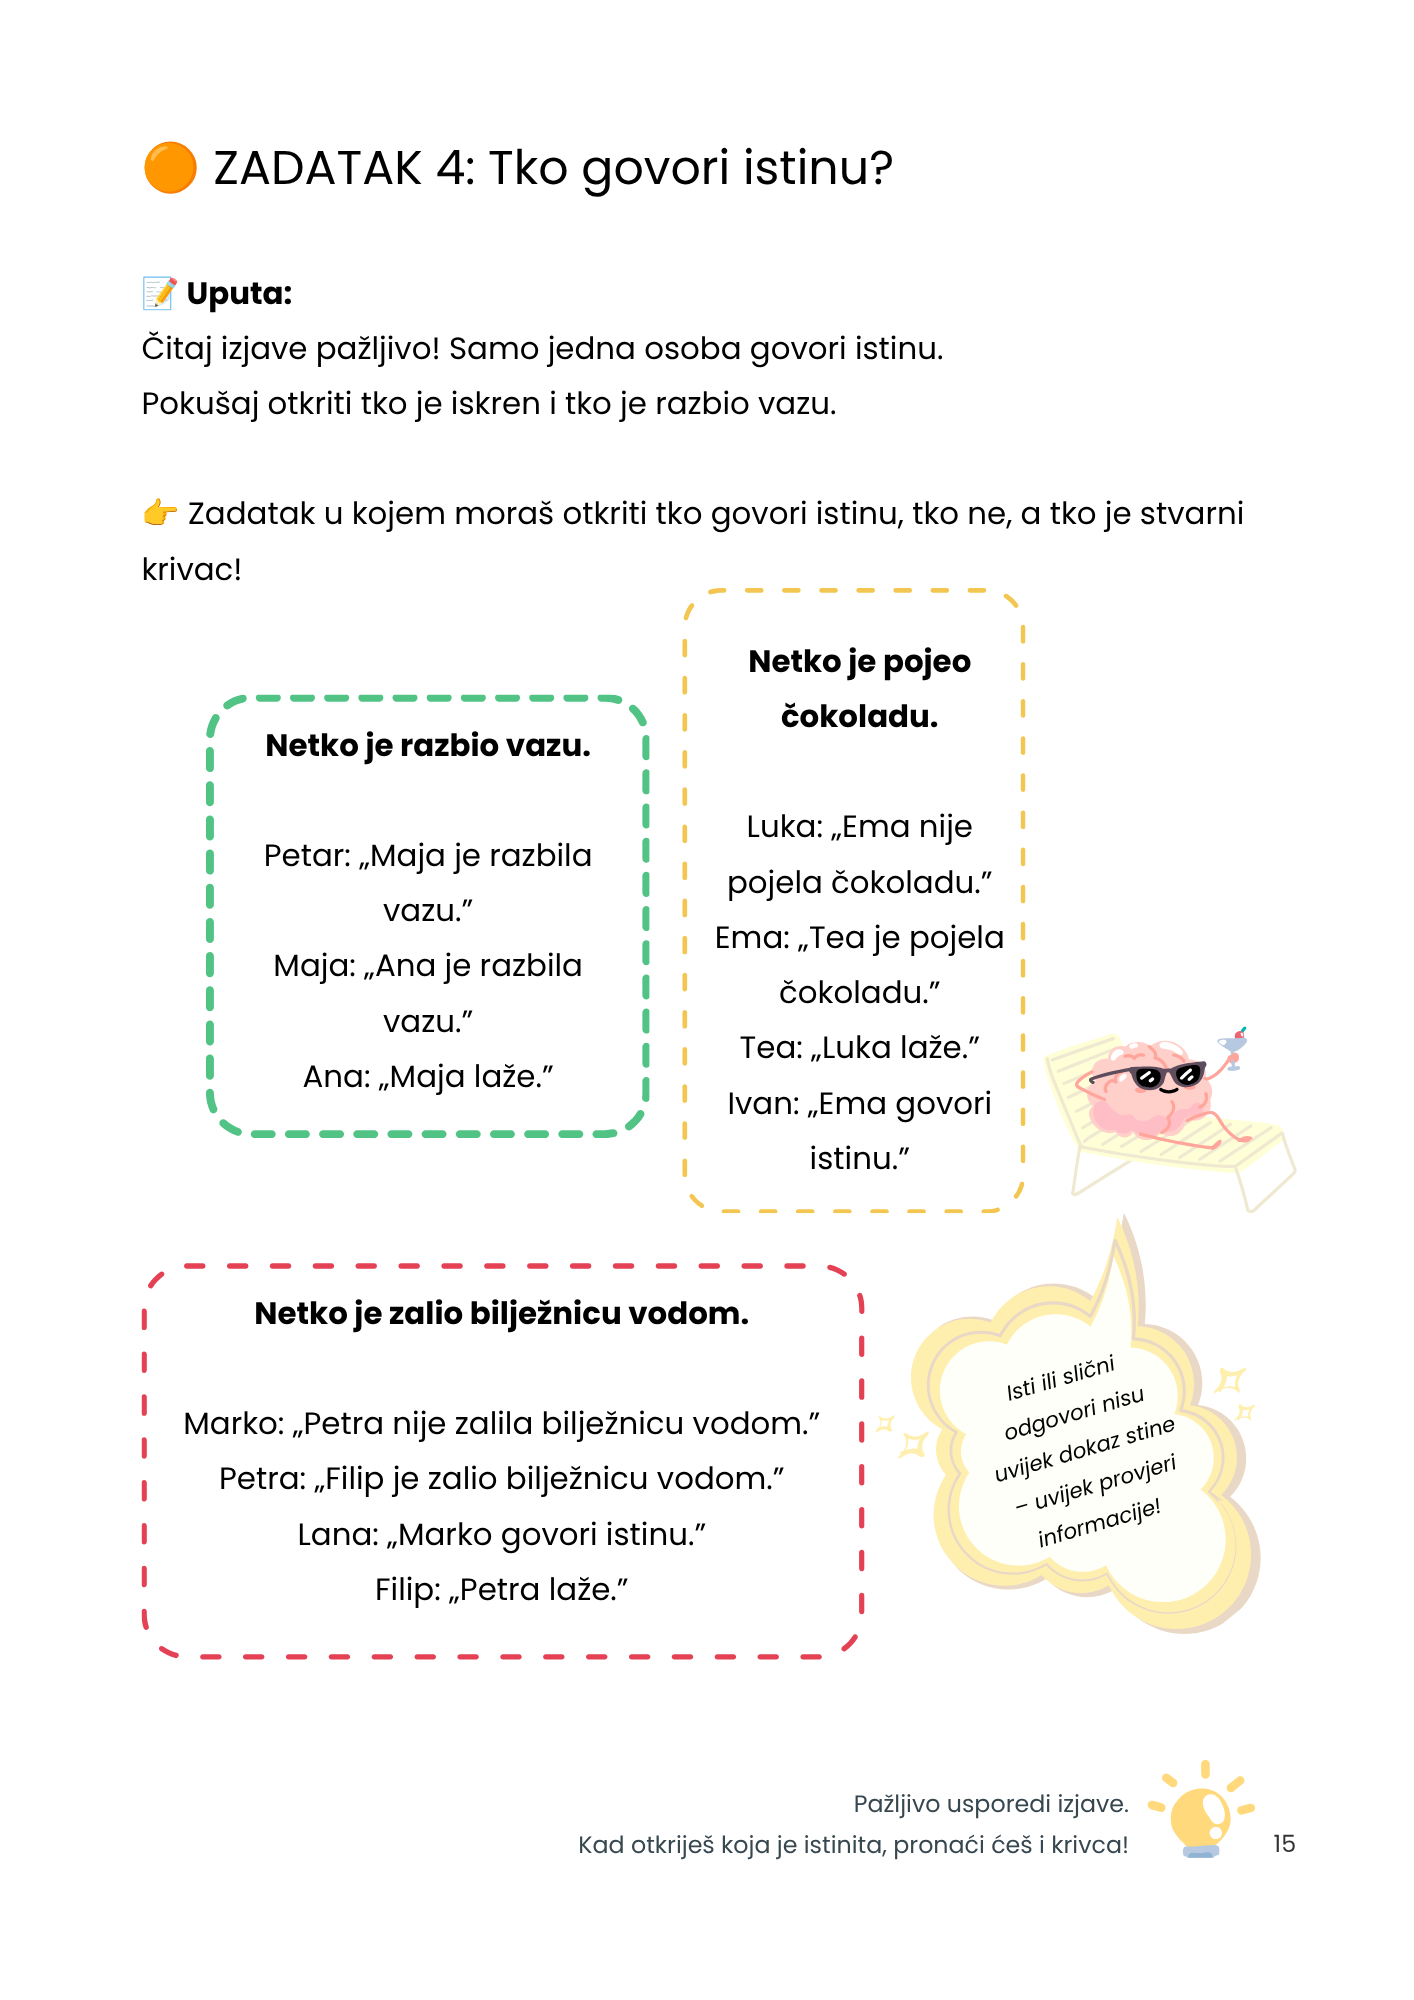
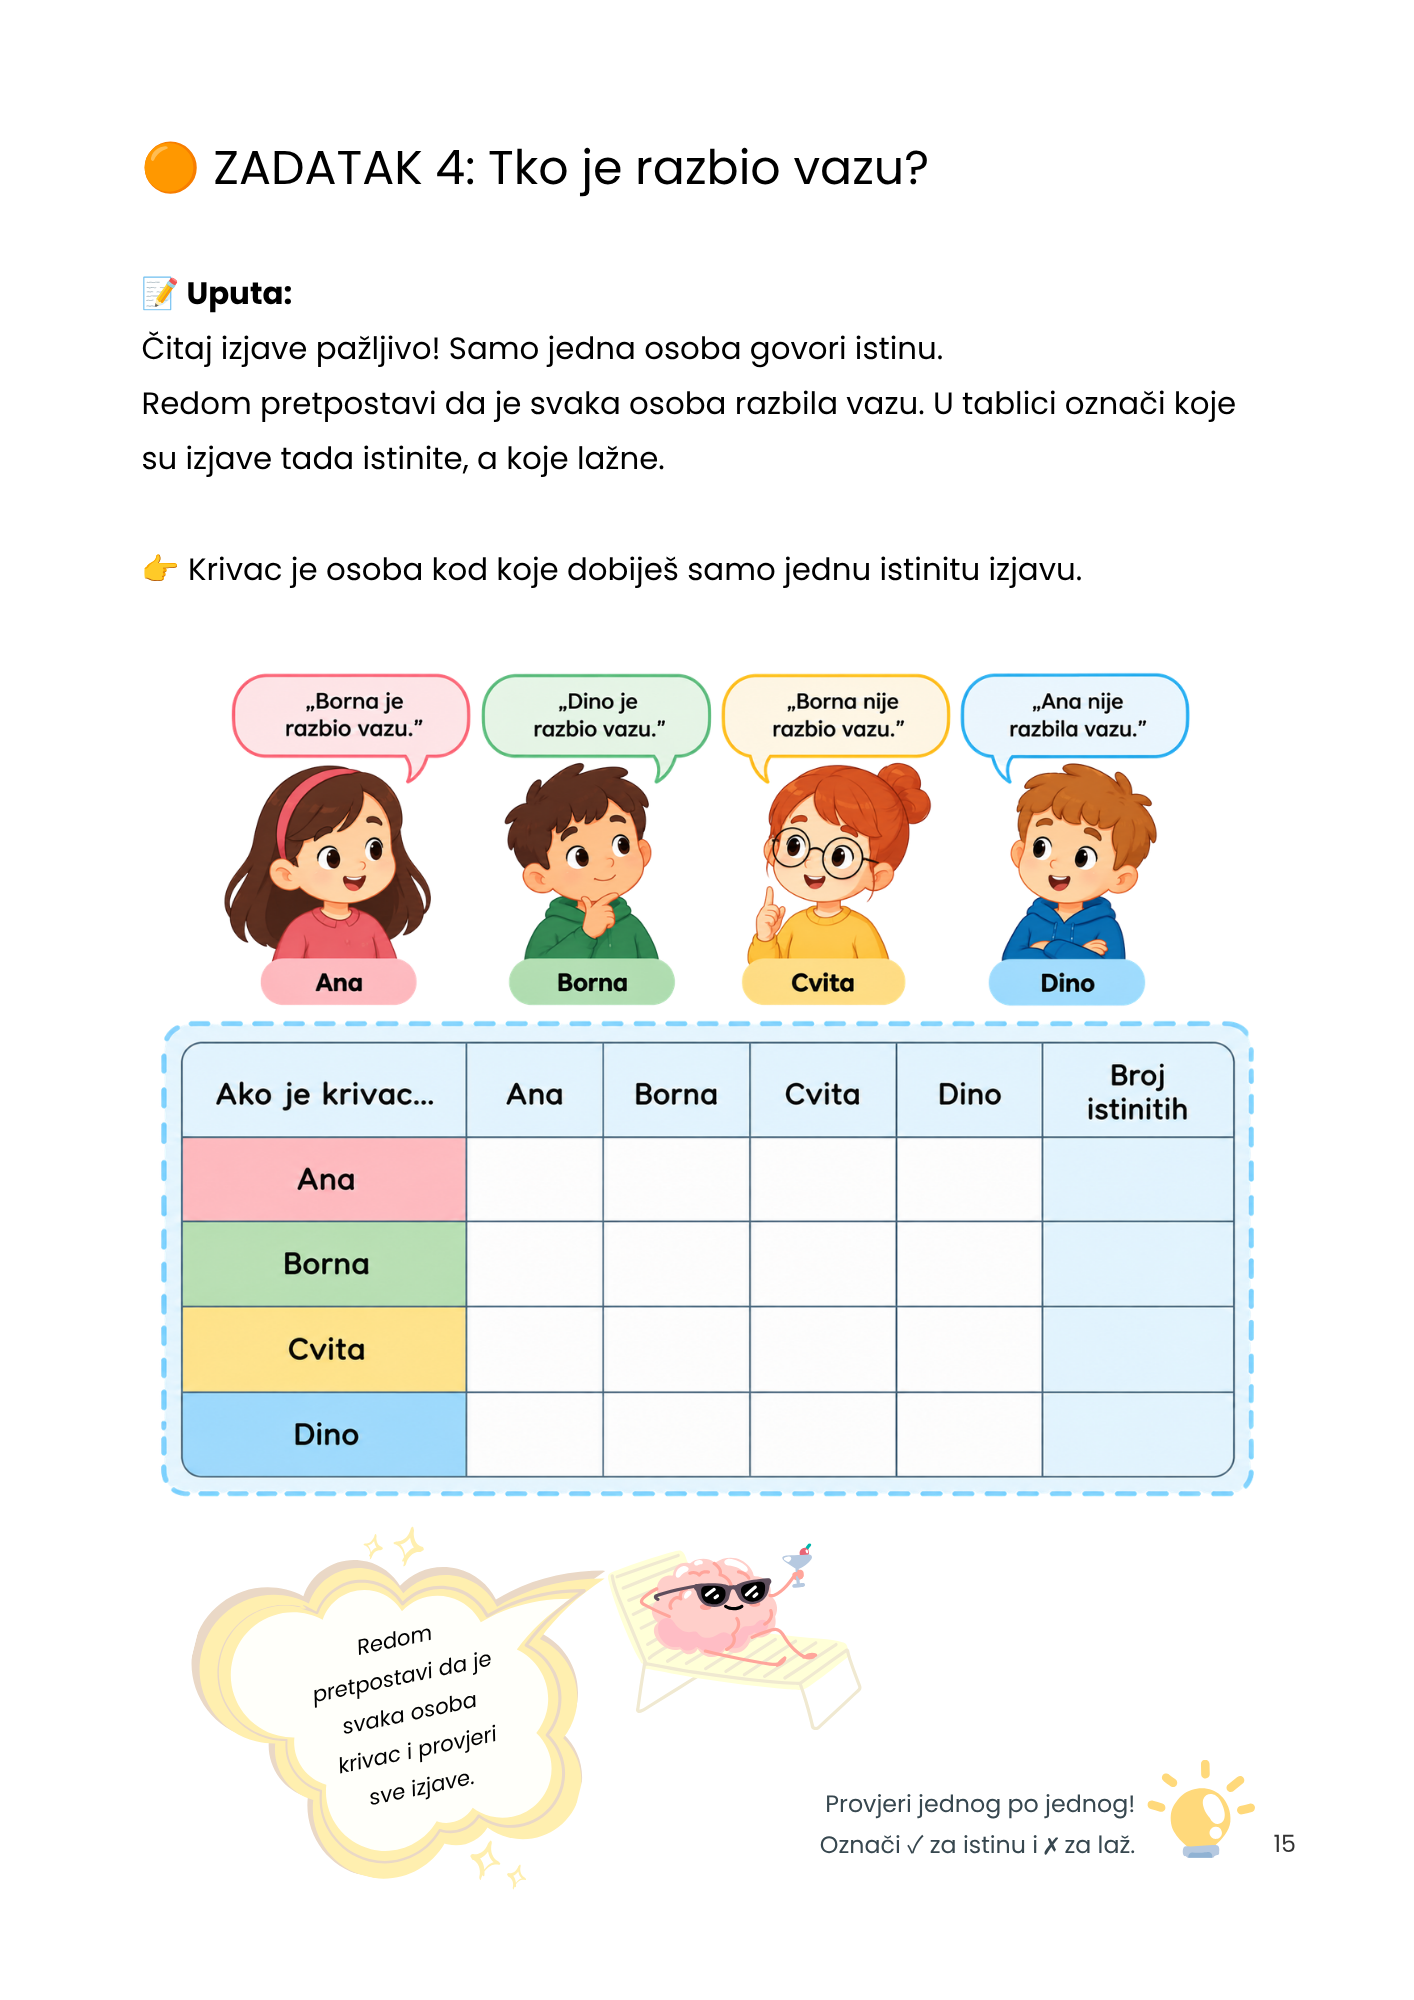
Add files via upload

diff --git a/app.js b/app.js
@@ -220,15 +220,26 @@ const pagesConfig = {
     ]
   },
 
-  20: {
-    hint: '👉 Pročitaj izjave i napiši tko je po tebi kriv u svakoj situaciji.',
-    tip: 'Isti ili slični odgovori nisu uvijek dokaz istine – uvijek provjeri informacije!',
-    type: 'text-panel',
-    questions: [
-      { q: 'Tko je razbio vazu?' },
-      { q: 'Tko je pojeo čokoladu?' },
-      { q: 'Tko je zalio bilježnicu vodom?' },
-    ]
+20: {
+    hint: '👉 Redom pretpostavi da je svaka osoba krivac i provjeri sve izjave.',
+    tip: 'Provjeri jednog po jednog! Označi ✓ za istinu i ✗ za laž. Klikni jednom za ✓, a dvaput za ✗!',
+    type: 'logic-table',
+    tableGrid: {
+      x: 0.334,
+      y: 0.565,
+      w: 0.380,
+      h: 0.160,
+      rows: 4,
+      cols: 4
+    },
+    // Pomaknuto udesno (0.742) i dolje (0.570), te lagano rastegnuto visinski (0.164)
+    counterGrid: {
+      x: 0.742,
+      y: 0.570,
+      w: 0.090,
+      h: 0.164,
+      rows: 4
+    }
   },
 
 21: {
@@ -1237,42 +1248,154 @@ function renderTrueFalse(pageNum, cfg, panel) {
   panel.appendChild(btn);
 }
 
-// ---- choice-groups (bez provjere) ----
-function renderChoiceGroups(pageNum, cfg, panel) {
-  buildHintBlock(panel, cfg, pageNum);
+// ---- logic-table (novi ZADATAK 4) ----
+function renderLogicTableCanvas(pageNum, cfg, taskPanel) {
+  const layer = document.getElementById('interactive-layer');
+  buildHintBlock(taskPanel, cfg, pageNum);
+
   const state = Store.get(pageNum);
-  const picks = state.picks || {};
+  let userMatrix = state.userMatrix || Array(4).fill(null).map(() => Array(4).fill(null));
 
-  cfg.groups.forEach((g, gi) => {
-    const box = ce('div', 'group-box');
-    box.appendChild(ce('div', 'qa-label', g.title));
-    const row = ce('div', 'chip-row');
-    g.options.forEach(opt => {
-      const chip = ce('button', 'chip' + (picks[gi] === opt ? ' selected' : ''), opt);
-      chip.addEventListener('click', () => {
-        picks[gi] = opt; Store.patch(pageNum, { picks });
-        row.querySelectorAll('.chip').forEach(c => c.classList.remove('selected', 'correct', 'incorrect'));
-        chip.classList.add('selected');
+  const inkCanvas = document.createElement('canvas');
+  inkCanvas.className = 'draw-canvas';
+  inkCanvas.style.pointerEvents = 'auto';
+  inkCanvas.style.touchAction = 'manipulation';
+  layer.appendChild(inkCanvas);
+
+  const ctx = inkCanvas.getContext('2d');
+
+  function getBoxes() {
+    const w = inkCanvas.width;
+    const h = inkCanvas.height;
+    
+    // 1. Kutije za 4x4 kvačice/križiće
+    const g = cfg.tableGrid;
+    const stepX = (g.w * w) / g.cols;
+    const stepY = (g.h * h) / g.rows;
+    const startX = g.x * w;
+    const startY = g.y * h;
+
+    const checkCells = [];
+    for (let r = 0; r < g.rows; r++) {
+      for (let c = 0; c < g.cols; c++) {
+        checkCells.push({
+          row: r,
+          col: c,
+          x: startX + c * stepX,
+          y: startY + r * stepY,
+          w: stepX,
+          h: stepY
+        });
+      }
+    }
+
+    // 2. Kutije za brojač (5. stupac)
+    const cG = cfg.counterGrid;
+    const cStartX = cG.x * w;
+    const cStartY = cG.y * h;
+    const cStepY = (cG.h * h) / cG.rows;
+    const cWidth = cG.w * w;
+
+    const counterCells = [];
+    for (let r = 0; r < cG.rows; r++) {
+      counterCells.push({
+        row: r,
+        x: cStartX,
+        y: cStartY + r * cStepY,
+        w: cWidth,
+        h: cStepY
       });
-      row.appendChild(chip);
+    }
+
+    return { checkCells, counterCells };
+  }
+
+  function redraw() {
+    ctx.clearRect(0, 0, inkCanvas.width, inkCanvas.height);
+    const { checkCells, counterCells } = getBoxes();
+
+    // Iscrtaj 4x4 kvačice i križiće
+    checkCells.forEach(box => {
+      const val = userMatrix[box.row][box.col];
+      if (val !== null) {
+        ctx.font = 'bold 22px sans-serif';
+        ctx.textAlign = 'center';
+        ctx.textBaseline = 'middle';
+
+        if (val === true) {
+          ctx.fillStyle = '#15803d';
+          ctx.fillText('✓', box.x + box.w / 2, box.y + box.h / 2);
+        } else {
+          ctx.fillStyle = '#dc2626';
+          ctx.fillText('✗', box.x + box.w / 2, box.y + box.h / 2);
+        }
+      }
     });
-    box.appendChild(row);
-    box._row = row; box._answer = g.answer;
-    panel.appendChild(box);
+
+    // Iscrtaj brojač u 5. stupcu
+// Iscrtaj brojač u 5. stupcu (Responzivno u postotcima)
+    counterCells.forEach(box => {
+      const rowValues = userMatrix[box.row];
+      const trueCount = rowValues.filter(v => v === true).length;
+      const totalFilled = rowValues.filter(v => v !== null).length;
+
+      if (totalFilled > 0) {
+        // Dinamička veličina fonta ovisno o visini ćelije (uvijek proporcionalno)
+        const fontSize = Math.round(box.h * 0.75); 
+        ctx.font = `bold ${fontSize}px sans-serif`;
+        ctx.textAlign = 'center';
+        ctx.textBaseline = 'middle';
+        ctx.fillStyle = '#1e293b';
+
+        // Progresivni pomak po visini u postotcima [% visine ćelije]:
+        // Red 0: 0%, Red 1: 5%, Red 2: 12%, Red 3: 20% visine ćelije prema dolje
+        const rowPercentShift = [0, 0.05, 0.12, 0.20];
+        
+        const finalX = box.x + box.w / 2;
+        const finalY = box.y + box.h / 2 + (box.h * rowPercentShift[box.row]);
+
+        ctx.fillText(trueCount.toString(), finalX, finalY);
+      }
+    });
+  }
+
+  inkCanvas.addEventListener('pointerdown', (e) => {
+    if (e.targetTouches && e.targetTouches.length > 1) return;
+
+    const rect = inkCanvas.getBoundingClientRect();
+    const clickX = e.clientX - rect.left;
+    const clickY = e.clientY - rect.top;
+
+    const { checkCells } = getBoxes();
+    const hitBox = checkCells.find(b => 
+      clickX >= b.x && clickX <= b.x + b.w &&
+      clickY >= b.y && clickY <= b.y + b.h
+    );
+
+    if (hitBox) {
+      const curr = userMatrix[hitBox.row][hitBox.col];
+      if (curr === null) userMatrix[hitBox.row][hitBox.col] = true;
+      else if (curr === true) userMatrix[hitBox.row][hitBox.col] = false;
+      else userMatrix[hitBox.row][hitBox.col] = null;
+
+      Store.patch(pageNum, { userMatrix });
+      redraw();
+    }
   });
 
-  const btn = ce('button', 'check-btn', '✅ Provjeri odgovore');
-  btn.addEventListener('click', () => {
-    panel.querySelectorAll('.group-box').forEach((box, gi) => {
-      const sel = picks[gi];
-      box._row.querySelectorAll('.chip').forEach(c => {
-        c.classList.remove('correct', 'incorrect');
-        if (c.textContent === box._answer) c.classList.add('correct');
-        else if (c.textContent === sel) c.classList.add('incorrect');
-      });
-    });
+  function resize() {
+    const rect = layer.getBoundingClientRect();
+    inkCanvas.width = rect.width;
+    inkCanvas.height = rect.height;
+    redraw();
+  }
+
+  resize();
+  window.addEventListener('resize', resize);
+
+  onPageCleanup(() => {
+    window.removeEventListener('resize', resize);
   });
-  panel.appendChild(btn);
 }
 
 // ---- memory ----
@@ -1548,7 +1671,7 @@ function renderInteractiveElements(pageNum, cfg) {
   }
   pageViewport.classList.add('with-panel');
 
-  switch (cfg.type) {
+switch (cfg.type) {
     case 'drag-rings': renderDragRings(pageNum, cfg, taskPanel); break;
     case 'tally-mark': renderTallyMark(pageNum, cfg, taskPanel); break;
     case 'draw-canvas': renderDrawCanvas(pageNum, cfg, taskPanel); break;
@@ -1558,13 +1681,14 @@ function renderInteractiveElements(pageNum, cfg) {
     case 'choice-panel': renderChoicePanel(pageNum, cfg, taskPanel); break;
     case 'truefalse': renderTrueFalse(pageNum, cfg, taskPanel); break;
     case 'choice-groups': renderChoiceGroups(pageNum, cfg, taskPanel); break;
+    case 'logic-table': renderLogicTableCanvas(pageNum, cfg, taskPanel); break;
     case 'memory': renderMemory(pageNum, cfg, taskPanel); break;
     case 'table-fill': renderTableFill(pageNum, cfg, taskPanel); break;
     case 'assign': renderAssign(pageNum, cfg, taskPanel); break;
     case 'order-panel': renderOrderPanel(pageNum, cfg, taskPanel); break;
     case 'self-assessment': renderSelfAssessment(pageNum, taskPanel); break;
     case 'diploma': renderDiploma(pageNum, taskPanel); break;
-	case 'checklist': renderChecklist(pageNum, cfg, taskPanel); break;
+    case 'checklist': renderChecklist(pageNum, cfg, taskPanel); break;
     default: pageViewport.classList.remove('with-panel');
   }
 }
